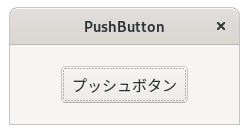
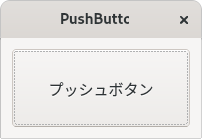
update

diff --git a/qt_pushbutton.py b/qt_pushbutton.py
@@ -1,10 +1,15 @@
 #!/usr/bin/env python
 # coding: utf-8
-# reference : https://github.com/andriyantohalim/PySide2_Tutorial
 
 import sys
 from PySide2.QtCore import Slot
-from PySide2.QtWidgets import QApplication, QWidget, QPushButton
+from PySide2.QtWidgets import (
+    QApplication,
+    QPushButton,
+    QSizePolicy,
+    QVBoxLayout,
+    QWidget,
+)
 
 
 class Example(QWidget):
@@ -15,14 +20,16 @@ class Example(QWidget):
         self.show()
 
     def initUI(self):
-        btn: QPushButton = QPushButton('プッシュボタン', self)
-        btn.clicked.connect(self.buttonClicked)
-        btn.resize(btn.sizeHint())
-        btn.move(50, 20)
+        vbox = QVBoxLayout()
+        self.setLayout(vbox)
 
-    @Slot()
+        btn = QPushButton('プッシュボタン')
+        btn.setSizePolicy(QSizePolicy.Expanding, QSizePolicy.Expanding)
+        btn.clicked.connect(self.buttonClicked)
+        vbox.addWidget(btn)
+
     def buttonClicked(self):
-        obj: QPushButton = self.sender()
+        obj = self.sender()
         print('「' + obj.text() + '」がクリックされました。')
 
 
